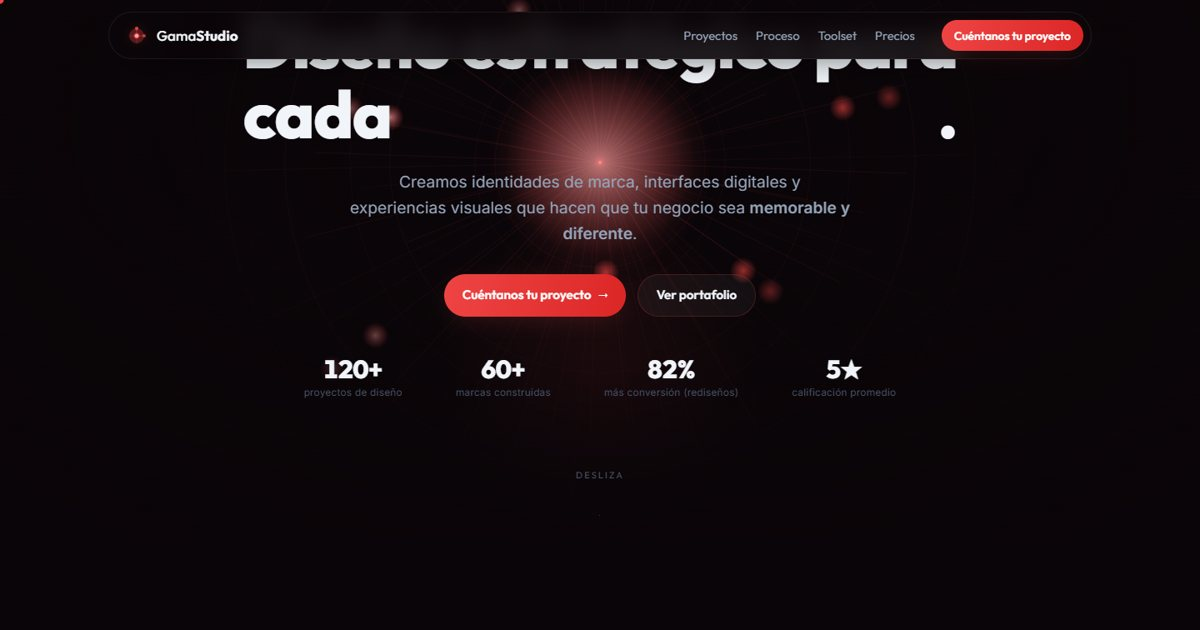
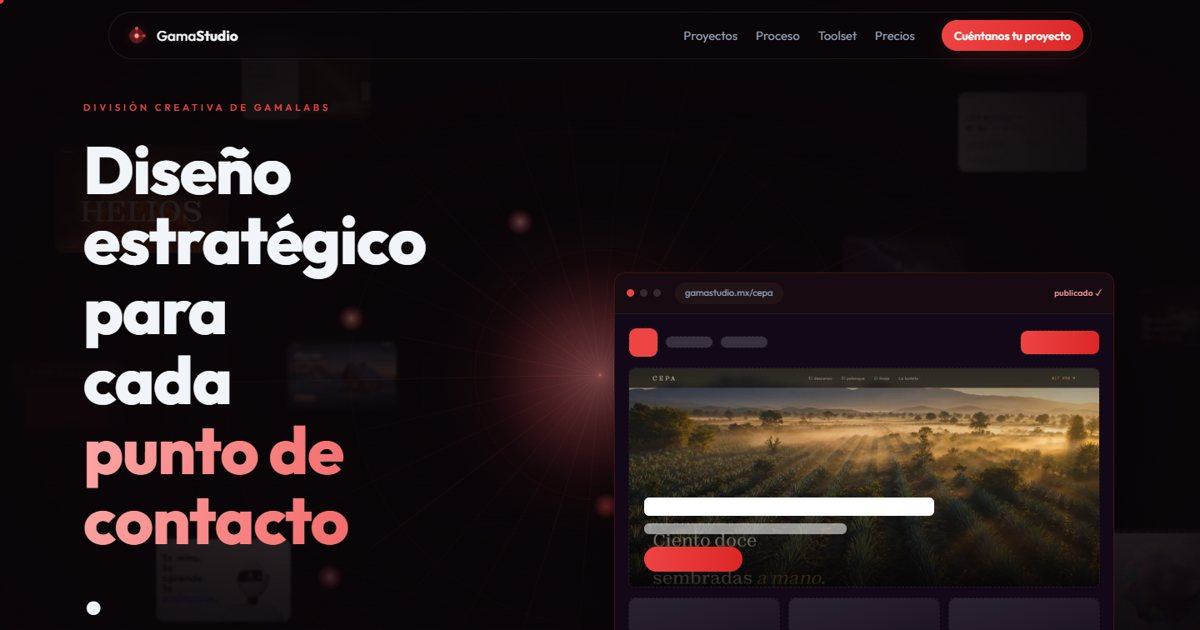
Hero cinematografico: navegador que CONSTRUYE sitios reales en vivo + campo 3D del portafolio
Wireframe rojo -> captura real se rellena -> nav/cards/CTA -> bano de color ->
cursor hace clic -> cicla entre sitios reales (cepa/vialactea/obtura...).
Campo de 12 previews reales con parallax + deriva. Referencia directa a
desarrollo web. Reemplaza el hero de apertura sola.

diff --git a/js/app.js b/js/app.js
@@ -80,7 +80,7 @@ function aperture(canvas, opts = {}) {
   }
   requestAnimationFrame(frame);
 }
-aperture(document.getElementById('aperture'), { lines: 44, scale: .42 });
+const apHero = document.getElementById('aperture'); if (apHero) aperture(apHero, { lines: 44, scale: .42 });
 const apCta = document.getElementById('apertureCta'); if (apCta) aperture(apCta, { lines: 30, scale: .5 });
 
 /* headline cinético (palabras suben con blur) — sin romper el span de gradiente */
@@ -160,4 +160,75 @@ const apCta = document.getElementById('apertureCta'); if (apCta) aperture(apCta,
       scrub: .6, pin: pin, anticipatePin: 1, invalidateOnRefresh: true
     }
   });
+})();
+
+/* ---- HERO: campo 3D de sitios reales (parallax + deriva) ---- */
+(() => {
+  const field = document.getElementById('field'); if (!field) return;
+  const IMGS = ['helios','anima','palacio','copal','niebla','cumbre','pigmento','plasma','minutero','obtura','anden','vialactea'];
+  const SPOTS = [[4,16,.9],[13,60,.55],[1,40,.35],[20,4,.5],[7,83,.72],[24,38,.32],[80,10,.5],[90,58,.85],[74,82,.6],[95,32,.38],[84,46,.32],[70,26,.45]];
+  const cards = SPOTS.map(([x, y, d], i) => {
+    const c = document.createElement('div'); c.className = 'fcard';
+    const w = 90 + d * 132;
+    c.style.cssText = `left:${x}%;top:${y}%;width:${w}px;height:${Math.round(w * .62)}px;filter:blur(${((1 - d) * 3).toFixed(1)}px) brightness(${(.5 + d * .5).toFixed(2)});z-index:${Math.round(d * 10)}`;
+    c.innerHTML = `<img src="assets/work/${IMGS[i % IMGS.length]}.jpg" alt="" loading="eager">`;
+    c._d = d; c._ph = i * 1.7; field.appendChild(c);
+    setTimeout(() => c.style.opacity = (.32 + d * .5).toFixed(2), 350 + i * 80);
+    return c;
+  });
+  let tmx = .5, tmy = .5, mx = .5, my = .5;
+  if (fine) addEventListener('pointermove', e => { tmx = e.clientX / innerWidth; tmy = e.clientY / innerHeight; }, { passive: true });
+  const t0 = performance.now();
+  (function loop(now) {
+    mx += (tmx - mx) * .06; my += (tmy - my) * .06;
+    const t = reduce ? 0 : (now - t0) / 1000;
+    for (const c of cards) {
+      const dx = (mx - .5) * -c._d * 46 + (reduce ? 0 : Math.sin(t * .3 + c._ph) * 8 * c._d);
+      const dy = (my - .5) * -c._d * 46 + (reduce ? 0 : Math.cos(t * .25 + c._ph) * 8 * c._d);
+      c.style.transform = `translate3d(${dx.toFixed(1)}px,${dy.toFixed(1)}px,0)`;
+    }
+    requestAnimationFrame(loop);
+  })(performance.now());
+})();
+
+/* ---- HERO: el navegador que se construye solo ---- */
+(() => {
+  const builder = document.getElementById('builder'), site = document.getElementById('site');
+  if (!builder || !site || typeof gsap === 'undefined') return;
+  const bwUrl = document.getElementById('bwUrl'), bwStatus = document.getElementById('bwStatus'),
+    sImg = document.getElementById('sImg'), tint = document.getElementById('tint'), bcur = document.getElementById('bcursor');
+  const boxes = gsap.utils.toArray('#site .s-box');
+  const fills = '#site .fill, #site .s-h1, #site .s-h2, #site .s-btn';
+  const SITES = [['cepa','gamastudio.mx/cepa'],['vialactea','gamastudio.mx/vialactea'],['obtura','gamastudio.mx/obtura'],['palacio','gamastudio.mx/palacio'],['helios','gamastudio.mx/helios']];
+  if (fine && !reduce) {
+    const bw = builder.querySelector('.bw');
+    builder.addEventListener('pointermove', e => { const r = builder.getBoundingClientRect(); bw.style.transform = `rotateY(${((e.clientX - r.left) / r.width - .5) * 7}deg) rotateX(${((e.clientY - r.top) / r.height - .5) * -7}deg)`; });
+    builder.addEventListener('pointerleave', () => bw.style.transform = '');
+  }
+  if (reduce) { gsap.set(fills, { opacity: 1 }); gsap.set(sImg, { opacity: 1 }); gsap.set(boxes, { borderColor: 'rgba(255,255,255,.07)' }); site.classList.add('built'); bwStatus.textContent = 'publicado ✓'; return; }
+  let idx = 0, vis = true;
+  new IntersectionObserver(e => vis = e[0].isIntersecting).observe(builder);
+  function build() {
+    if (!vis || document.hidden) { setTimeout(build, 700); return; }
+    const [slug, url] = SITES[idx % SITES.length]; idx++;
+    site.classList.remove('built');
+    const tl = gsap.timeline({ onComplete: () => setTimeout(build, 2400) });
+    tl.add(() => bwStatus.textContent = 'construyendo…')
+      .set(boxes, { scaleX: 0, transformOrigin: 'left center', borderColor: 'rgba(239,68,68,.55)', opacity: 1 })
+      .set(fills, { opacity: 0 }).set(sImg, { opacity: 0 }).set(tint, { opacity: 0 }).set(bcur, { opacity: 0 })
+      .to(boxes, { scaleX: 1, duration: .5, stagger: .05, ease: 'power2.out' })
+      .add(() => sImg.src = 'assets/work/' + slug + '.jpg')
+      .to(sImg, { opacity: 1, duration: .5 }, '+=.05')
+      .add(() => { site.classList.add('built'); bwUrl.textContent = url; })
+      .to(fills, { opacity: 1, duration: .45, stagger: .035 }, '<')
+      .to(boxes, { borderColor: 'rgba(255,255,255,.07)', duration: .4 }, '<')
+      .fromTo(tint, { opacity: .55, xPercent: -35 }, { opacity: 0, xPercent: 35, duration: .7, ease: 'power1.inOut' })
+      .add(() => bwStatus.textContent = 'publicado ✓')
+      .set(bcur, { opacity: 1, left: '55%', top: '42%' })
+      .add(() => { const b = document.querySelector('.s-btn').getBoundingClientRect(), body = document.querySelector('.bw-body').getBoundingClientRect(); gsap.to(bcur, { left: b.left + b.width / 2 - body.left, top: b.top + b.height / 2 - body.top, duration: .5, ease: 'power2.inOut' }); })
+      .to({}, { duration: .55 })
+      .to('.s-btn', { scale: .93, duration: .1, yoyo: true, repeat: 1, transformOrigin: 'center' })
+      .to(bcur, { opacity: 0, duration: .3 }, '+=.15');
+  }
+  build();
 })();

diff --git a/index.html b/index.html
@@ -36,23 +36,51 @@
 
 <main id="top">
 
-  <!-- HERO -->
+  <!-- HERO combo: campo 3D de sitios + navegador que se construye solo -->
   <section class="hero" id="hero">
-    <canvas class="aperture" id="aperture" aria-hidden="true"></canvas>
+    <div class="field" id="field" aria-hidden="true"></div>
     <div class="hero-veil" aria-hidden="true"></div>
-    <div class="hero-inner">
-      <p class="eyebrow">DIVISIÓN CREATIVA DE GAMALABS</p>
-      <h1 class="hero-title" data-kinetic>Diseño estratégico para<br>cada <span class="grad">punto de contacto</span>.</h1>
-      <p class="hero-sub">Creamos identidades de marca, interfaces digitales y experiencias visuales que hacen que tu negocio sea <strong>memorable y diferente</strong>.</p>
-      <div class="hero-cta">
-        <a class="btn btn-cta magnetic" href="#contacto">Cuéntanos tu proyecto <span class="arr">→</span></a>
-        <a class="btn btn-ghost" href="#proyectos">Ver portafolio</a>
+    <div class="hero-grid">
+      <div class="hero-copy">
+        <p class="eyebrow">DIVISIÓN CREATIVA DE GAMALABS</p>
+        <h1 class="hero-title" data-kinetic>Diseño estratégico para<br>cada <span class="grad">punto de contacto</span>.</h1>
+        <p class="hero-sub">No solo diseñamos. <strong>Construimos</strong> identidades, interfaces y sitios web que hacen memorable a tu negocio.</p>
+        <div class="hero-cta">
+          <a class="btn btn-cta magnetic" href="#contacto">Cuéntanos tu proyecto <span class="arr">→</span></a>
+          <a class="btn btn-ghost" href="#proyectos">Ver portafolio</a>
+        </div>
+        <div class="hero-stats">
+          <div><span class="hs-n" data-count="120" data-suffix="+">0</span><span class="hs-l">proyectos</span></div>
+          <div><span class="hs-n" data-count="60" data-suffix="+">0</span><span class="hs-l">marcas</span></div>
+          <div><span class="hs-n" data-count="82" data-suffix="%">0</span><span class="hs-l">+ conversión</span></div>
+          <div><span class="hs-n">5★</span><span class="hs-l">promedio</span></div>
+        </div>
       </div>
-      <div class="hero-stats">
-        <div><span class="hs-n" data-count="120" data-suffix="+">0</span><span class="hs-l">proyectos de diseño</span></div>
-        <div><span class="hs-n" data-count="60" data-suffix="+">0</span><span class="hs-l">marcas construidas</span></div>
-        <div><span class="hs-n" data-count="82" data-suffix="%">0</span><span class="hs-l">más conversión (rediseños)</span></div>
-        <div><span class="hs-n">5★</span><span class="hs-l">calificación promedio</span></div>
+      <div class="builder" id="builder" aria-hidden="true">
+        <div class="bw">
+          <div class="bw-bar"><span class="bd r"></span><span class="bd"></span><span class="bd"></span><span class="bw-url" id="bwUrl">gamastudio.mx</span><span class="bw-status" id="bwStatus">construyendo…</span></div>
+          <div class="bw-body">
+            <div class="site" id="site">
+              <div class="s-nav">
+                <span class="s-box s-logo"><i class="fill"></i></span>
+                <span class="s-box s-link"><i class="fill"></i></span>
+                <span class="s-box s-link"><i class="fill"></i></span>
+                <span class="s-box s-cta"><i class="fill"></i></span>
+              </div>
+              <div class="s-box s-hero">
+                <img class="s-img" id="sImg" src="assets/work/cepa.jpg" alt="" aria-hidden="true">
+                <span class="s-h1"></span><span class="s-h2"></span><span class="s-btn"></span>
+              </div>
+              <div class="s-cards">
+                <span class="s-box s-card"><i class="fill"></i></span>
+                <span class="s-box s-card"><i class="fill"></i></span>
+                <span class="s-box s-card"><i class="fill"></i></span>
+              </div>
+            </div>
+            <div class="tint" id="tint"></div>
+            <div class="bcursor" id="bcursor">➤</div>
+          </div>
+        </div>
       </div>
     </div>
     <div class="hero-scrollcue" aria-hidden="true"><span>desliza</span><i></i></div>

diff --git a/css/styles.css b/css/styles.css
@@ -54,13 +54,17 @@ body.pointer-fine .cursor-glow{opacity:.6}
 .nav-cta{padding:.55em 1.1em;font-size:.86rem}
 @media(max-width:820px){.nav-links{display:none}}
 
-/* HERO */
-.hero{min-height:100svh;display:flex;flex-direction:column;justify-content:center;align-items:center;
-  text-align:center;overflow:hidden;padding:120px 20px 60px}
+/* HERO combo */
+.hero{position:relative;min-height:100svh;overflow:hidden;padding:120px clamp(20px,5vw,70px) 70px;display:flex;align-items:center}
 .aperture{position:absolute;inset:0;width:100%;height:100%;z-index:0}
+.field{position:absolute;inset:0;z-index:0;pointer-events:none}
+.fcard{position:absolute;border-radius:10px;overflow:hidden;border:1px solid var(--border);box-shadow:0 30px 60px -30px #000;will-change:transform;opacity:0;transition:opacity 1s var(--ease)}
+.fcard img{width:100%;height:100%;object-fit:cover;object-position:top;display:block}
+.fcard::after{content:"";position:absolute;inset:0;background:linear-gradient(155deg,rgba(239,68,68,.14),rgba(10,5,8,.5))}
 .hero-veil{position:absolute;inset:0;z-index:1;pointer-events:none;
-  background:radial-gradient(115% 90% at 50% 35%,transparent 30%,var(--bg) 88%)}
-.hero-inner{position:relative;z-index:2;max-width:940px}
+  background:radial-gradient(95% 85% at 55% 45%,transparent 12%,rgba(10,5,8,.5) 55%,var(--bg) 92%)}
+.hero-grid{position:relative;z-index:2;width:100%;max-width:1240px;margin:0 auto;display:grid;grid-template-columns:1fr 1.05fr;gap:clamp(28px,4vw,60px);align-items:center}
+.hero-copy{max-width:560px}
 .eyebrow{font-family:var(--display);font-size:.72rem;letter-spacing:.32em;color:var(--color);margin-bottom:24px;font-weight:600}
 .hero-title{font-size:clamp(2.4rem,6.4vw,5rem);font-weight:800}
 .hero-title .word{display:inline-block}
@@ -74,6 +78,37 @@ body.pointer-fine .cursor-glow{opacity:.6}
   align-items:center;gap:8px;color:var(--dim);font-size:.68rem;letter-spacing:.2em;text-transform:uppercase;font-family:var(--display)}
 .hero-scrollcue i{width:1px;height:32px;background:linear-gradient(var(--color),transparent);animation:cue 1.8s var(--ease) infinite}
 @keyframes cue{0%{transform:scaleY(0);transform-origin:top}45%{transform:scaleY(1);transform-origin:top}55%{transform:scaleY(1);transform-origin:bottom}100%{transform:scaleY(0);transform-origin:bottom}}
+.hero-copy .hero-stats{justify-content:flex-start;gap:clamp(18px,3vw,40px);margin-top:40px}
+
+/* --- HERO builder (navegador que se construye) --- */
+.builder{position:relative;justify-self:center;width:100%;max-width:600px;perspective:1200px;will-change:transform}
+.bw{border-radius:14px;overflow:hidden;border:1px solid var(--border-r);background:#0d0709;
+  box-shadow:0 60px 120px -50px #000,0 0 0 1px rgba(239,68,68,.05);transform-style:preserve-3d}
+.bw-bar{display:flex;align-items:center;gap:7px;padding:11px 14px;background:#170a10;border-bottom:1px solid var(--border)}
+.bd{width:9px;height:9px;border-radius:50%;background:#3a2830}.bd.r{background:var(--color)}
+.bw-url{margin-left:10px;font-family:var(--display);font-size:.7rem;color:var(--muted);background:rgba(255,255,255,.04);border-radius:100px;padding:4px 12px}
+.bw-status{margin-left:auto;font-family:var(--display);font-size:.62rem;color:var(--color-light);letter-spacing:.04em}
+.bw-body{position:relative;aspect-ratio:16/11.5;overflow:hidden;background:var(--bg2)}
+.site{position:absolute;inset:16px;display:flex;flex-direction:column;gap:12px}
+.s-box{border:1.4px dashed rgba(239,68,68,.5);border-radius:8px;position:relative;overflow:hidden}
+.s-box .fill{position:absolute;inset:0;opacity:0;border-radius:inherit}
+.s-nav{display:flex;align-items:center;gap:8px;height:36px;flex:none;border:none}
+.s-logo{width:36px;height:36px;border-radius:9px;flex:none}.s-logo .fill{background:var(--color)}
+.s-link{width:58px;height:15px}.s-link .fill{background:rgba(255,255,255,.16)}
+.s-cta{width:96px;height:30px;margin-left:auto}.s-cta .fill{background:linear-gradient(100deg,var(--color),var(--color-dark))}
+.s-hero{flex:1;display:flex;flex-direction:column;justify-content:flex-end;padding:18px;gap:9px}
+.s-img{position:absolute;inset:0;width:100%;height:100%;object-fit:cover;object-position:top;opacity:0;z-index:0}
+.s-hero::after{content:"";position:absolute;inset:0;background:linear-gradient(transparent 40%,rgba(5,3,4,.82));opacity:0;z-index:1;transition:opacity .5s}
+.site.built .s-hero::after{opacity:1}
+.s-h1,.s-h2,.s-btn{position:relative;z-index:2;opacity:0;border-radius:6px}
+.s-h1{height:22px;width:66%;background:#fff}
+.s-h2{height:13px;width:46%;background:rgba(255,255,255,.55)}
+.s-btn{height:30px;width:118px;border-radius:100px;background:linear-gradient(100deg,var(--color),var(--color-dark));margin-top:6px}
+.s-cards{display:grid;grid-template-columns:repeat(3,1fr);gap:10px;height:74px;flex:none;border:none}
+.s-card .fill{background:linear-gradient(160deg,rgba(255,255,255,.11),rgba(255,255,255,.03))}
+.tint{position:absolute;inset:0;background:linear-gradient(100deg,var(--color),transparent 55%);opacity:0;mix-blend-mode:overlay;pointer-events:none;z-index:3}
+.bcursor{position:absolute;left:0;top:0;color:#fff;font-size:.9rem;opacity:0;z-index:5;pointer-events:none;transform:translate(-50%,-50%) rotate(-12deg);filter:drop-shadow(0 2px 5px #000)}
+@media(max-width:900px){.hero{padding-top:104px}.hero-grid{grid-template-columns:1fr;gap:38px;text-align:center}.hero-copy{max-width:none;margin:0 auto}.hero-copy .hero-stats{justify-content:center}.builder{max-width:460px}}
 
 /* section heads */
 .sec-head{max-width:1180px;margin:0 auto;padding:0 clamp(20px,4vw,40px)}